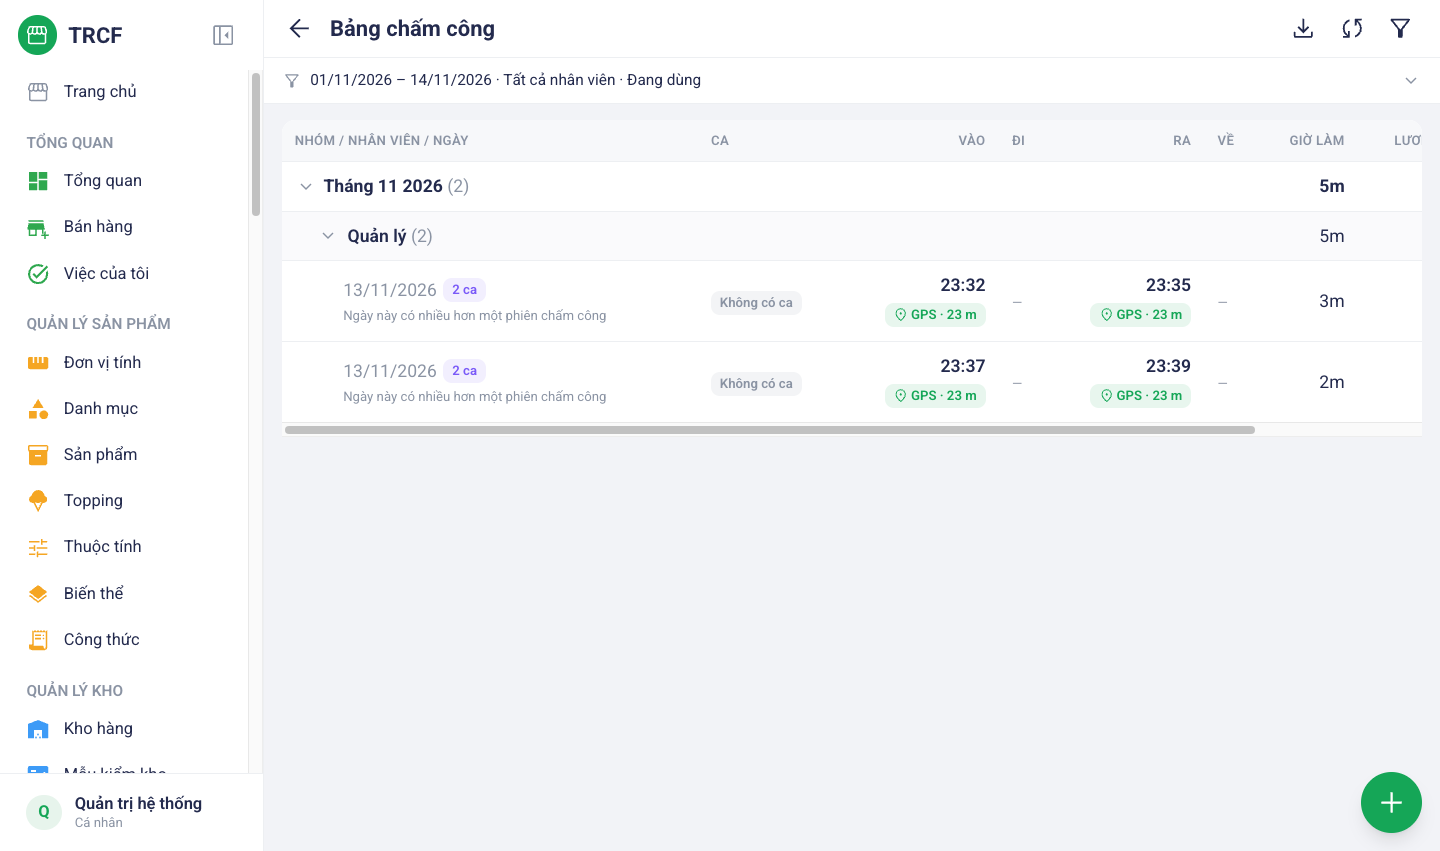
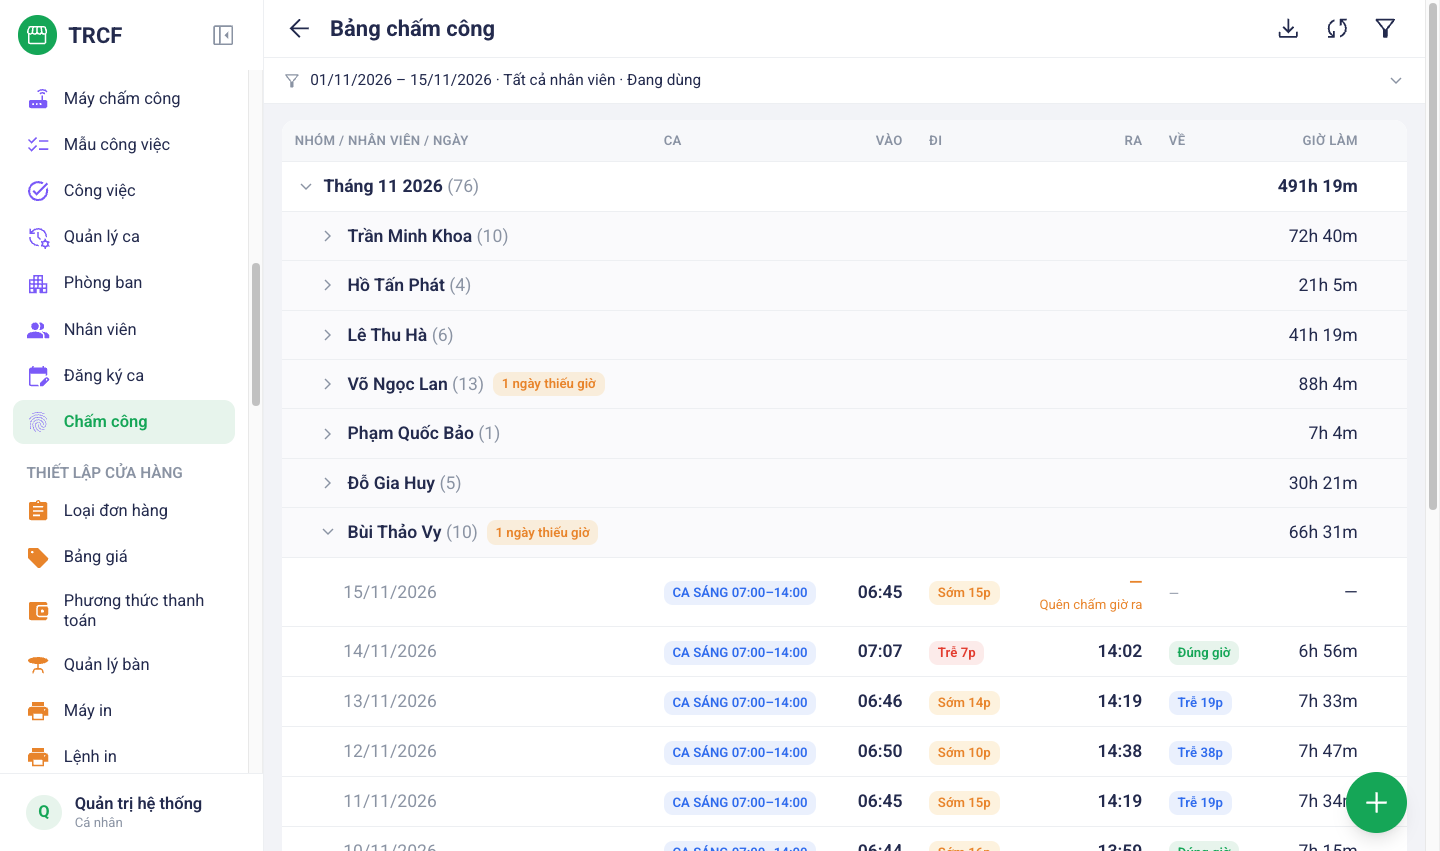
docs(9.3): đồng bộ chấm công theo dữ liệu thật — quên chấm giờ ra thì sửa dòng có sẵn; ẩn cột lương, thay tên nhân viên

diff --git a/noi-dung/9-3-dong-bo-cham-cong.md b/noi-dung/9-3-dong-bo-cham-cong.md
@@ -12,10 +12,10 @@ Menu trái: ==Quản lý nhân sự → Chấm công== (địa chỉ `/attendanc
 
 ## 2. Ví dụ nền và các bước thực hiện
 
-> **Ví dụ:** kéo giờ chấm công từ máy, bù tay khi quên chấm.
+> **Ví dụ:** ngày 15/11/2026, **Bùi Thảo Vy** làm **CA SÁNG** 07:00–14:00, quẹt vào lúc 06:45 nhưng quên quẹt ra.
 >
-> - Nhân viên **Trần Văn An** đã có ID Chấm công trên máy.
-> - Quên chấm giờ ra: quản lý bù tay bằng **Thêm bản ghi chấm công**.
+> - Bảng công báo **1 ngày thiếu giờ**, cột Về ghi **Quên chấm giờ ra**.
+> - Quản lý xác nhận bạn về lúc 14:00 và sửa giờ ra duyệt.
 
 ### Bước 1: Mở Bảng chấm công
 
@@ -29,7 +29,7 @@ Menu trái: ==Quản lý nhân sự → Chấm công== (địa chỉ `/attendanc
 ### Bước 2: Đồng bộ từ máy chấm công
 
 - Bấm biểu tượng hai mũi tên xoay góc trên phải (**Đồng bộ từ máy chấm công**).
-- Chọn máy và khoảng ngày như ảnh. Chọn khoảng **hẹp**.
+- Chọn máy và khoảng ngày như ảnh. Chọn khoảng **hẹp**, ở đây chỉ ngày 15/11.
 - Bấm **Kiểm tra kết nối** trước, rồi bấm **Đồng bộ**.
 - Hệ thống ghép cặp vào–ra theo từng người từng ngày. Lượt lẻ cuối ngày để trống giờ ra.
 
@@ -37,8 +37,9 @@ Menu trái: ==Quản lý nhân sự → Chấm công== (địa chỉ `/attendanc
 
 ### Bước 3: Bù tay khi quên chấm
 
-- Bấm nút tròn **+** ở góc dưới bên phải.
-- Điền như ảnh, bấm **Lưu**.
+- Mở dòng nhân viên, bấm vào ngày có **Quên chấm giờ ra**, chọn **Sửa**.
+- Điền **Giờ ra (duyệt)** và **Ghi chú** như ảnh, bấm **Lưu**. Giờ máy giữ nguyên.
+- Quên chấm cả ngày (không có dòng nào): bấm nút tròn **+** ở góc dưới bên phải để thêm bản ghi mới.
 
 ![Bước 3: Bù tay khi quên chấm](images/07-cham-cong-buoc-5-them-tay.png)
 
